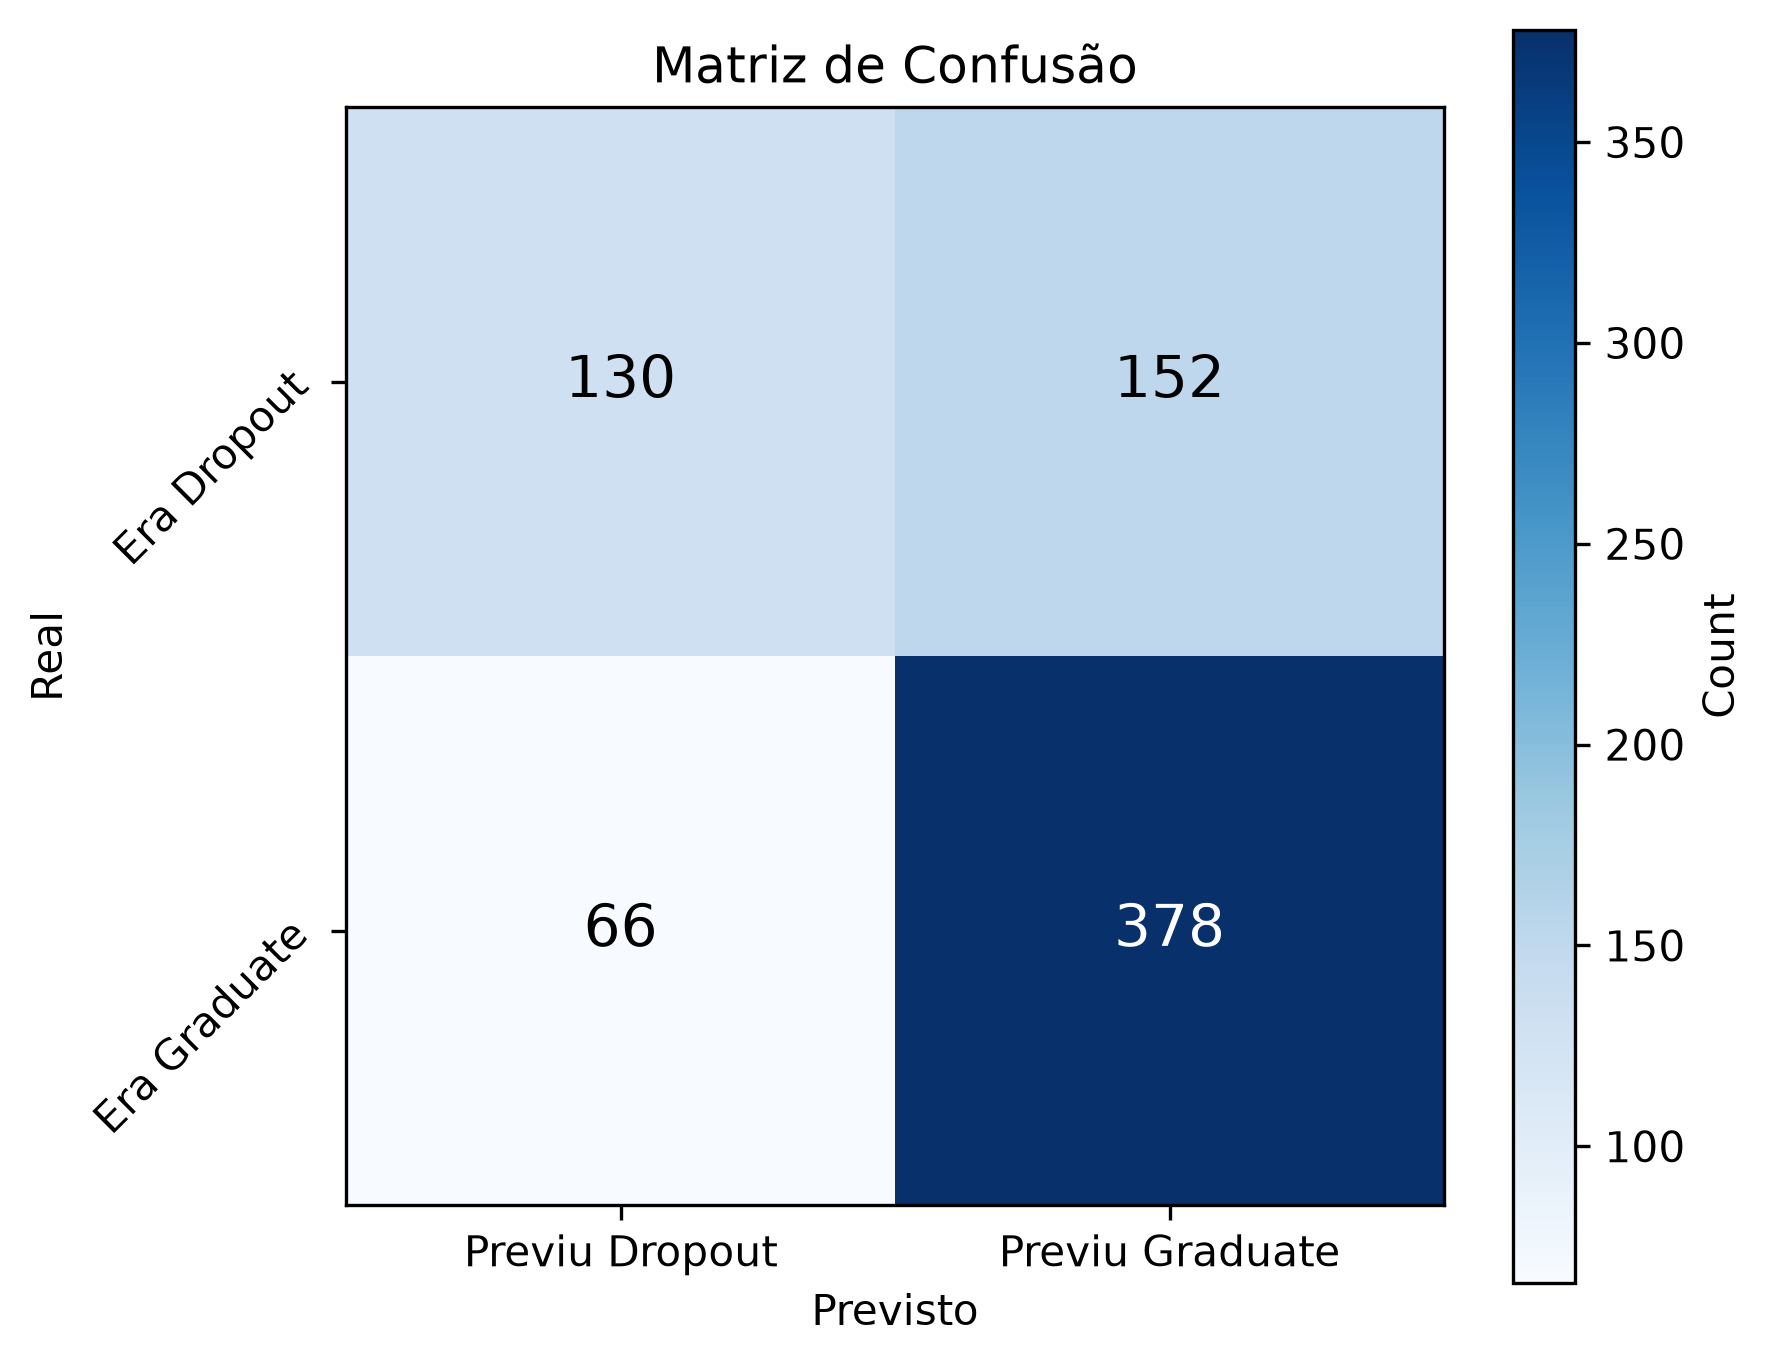
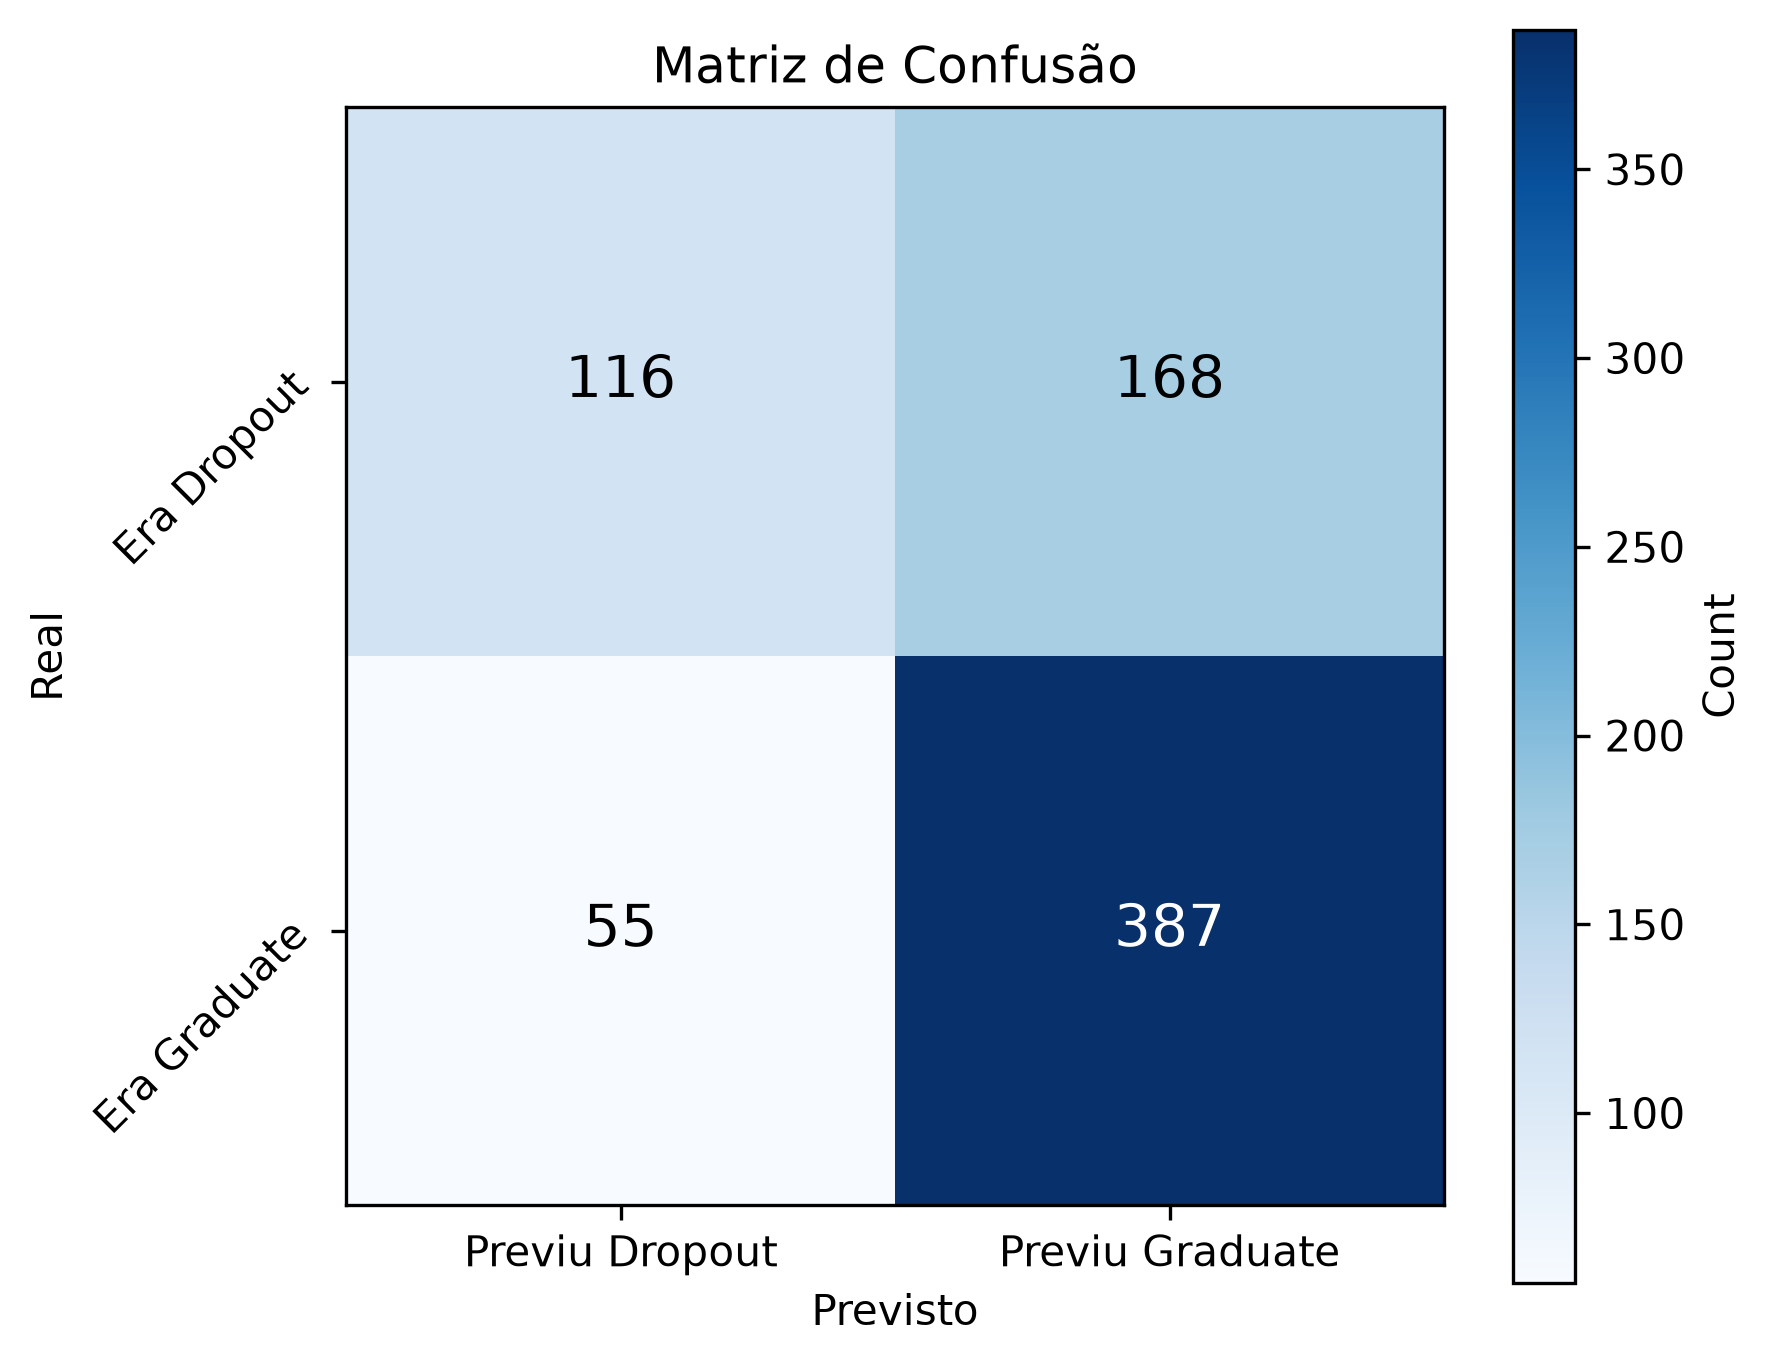
Corrige tratamento dados e print baseline no logistico

diff --git a/treinar-LogisticRegression.py b/treinar-LogisticRegression.py
@@ -1,4 +1,5 @@
 import pandas as pd
+import os
 import numpy as np
 import matplotlib.pyplot as plt
 import joblib
@@ -7,11 +8,14 @@ from sklearn.linear_model import LogisticRegression
 from sklearn.metrics import accuracy_score
 from sklearn.metrics import confusion_matrix
 from sklearn.metrics import classification_report
+from dados import dataClear
 
+os.makedirs("resultados", exist_ok=True)
+raw_df = pd.read_csv('data/dataset.csv', sep=";")
 
-df = pd.read_csv('data/dataset.csv', sep=";")
+plt.switch_backend("TkAgg")
 
-df = df[df["Target"] != "Enrolled"]
+df = dataClear(raw_df)
 print(df.loc[:, "Target"].value_counts())
 print(df.shape)
 
@@ -19,9 +23,8 @@ print(df.shape)
 X = df[["Admission grade", "Age at enrollment", "Scholarship holder"]]
 y = df["Target"]
 
-
 X_treino, X_teste, y_treino, y_teste = train_test_split(
-    X, y, test_size=0.2, random_state=404
+    X, y, test_size=0.2, random_state=404, stratify=y
 )
 
 ## -- Cria modelo
@@ -35,6 +38,12 @@ previsoes = modelo.predict(X_teste)
 ## -- Compara previsao com dados corretos
 acuracia = accuracy_score(y_teste, previsoes)
 print("Acurácia:", acuracia)
+
+## -- Calcula o baseline, utilizando a classe mais comum como previsão para todos os alunos.
+classe_mais_comum = pd.Series(y_treino).value_counts().idxmax()
+previsoes_baseline = [classe_mais_comum] * len(y_teste)
+acuracia_baseline = accuracy_score(y_teste, previsoes_baseline)
+print ("Acurácia do BaseLine: ", acuracia_baseline)
 
 ## -- Mostra onde acertou e errou
 matriz = confusion_matrix(y_teste, previsoes)
